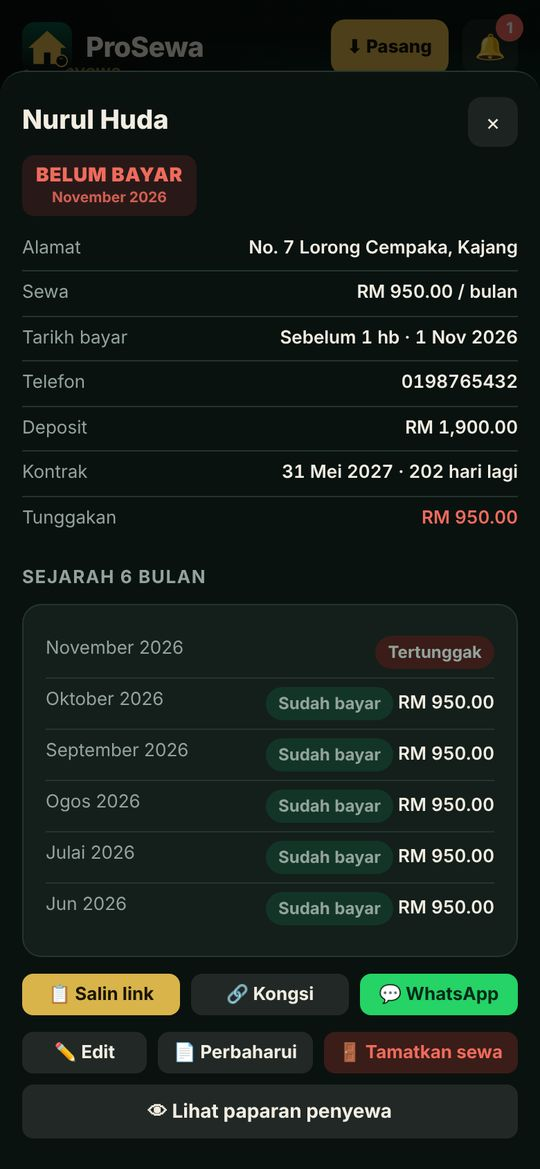
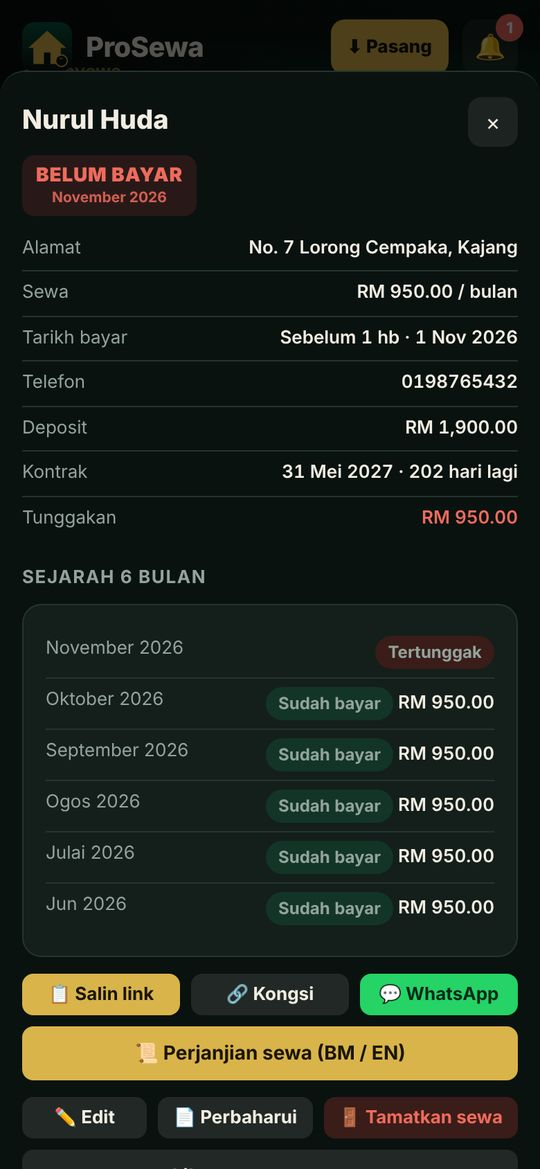
Kotak borang sejajar (grid2 align end); manual (perjanjian, peraturan, deposit cepat + 2 gambar baru), promo (ciri & FAQ perjanjian sewa), promo kit
Claude-Session: https://claude.ai/code/session_017f1VMKQwjxZcuJmQN7U4w8

Changed region(s): [[0.0296, 0.8623, 0.9778, 1.0]]

diff --git a/index.html b/index.html
@@ -122,7 +122,7 @@ input,select,textarea{width:100%;padding:11px 12px;border:1px solid var(--line);
 input:focus,select:focus,textarea:focus{border-color:var(--gold)}
 textarea{min-height:80px;resize:vertical}
 input::placeholder,textarea::placeholder{color:var(--muted);opacity:.85}
-.grid2{display:grid;grid-template-columns:minmax(0,1fr) minmax(0,1fr);gap:0 10px}
+.grid2{display:grid;grid-template-columns:minmax(0,1fr) minmax(0,1fr);gap:0 10px;align-items:end}
 .mnav{display:flex;gap:8px;align-items:center;margin:4px 0 10px}.mnav select{flex:1;padding:10px 12px;border-radius:12px;border:1px solid var(--line);background:var(--bg);color:var(--ink);font:700 15px var(--f);text-align:center}.mnav .btn{flex:none;width:48px;height:46px;padding:0;font-size:26px;font-weight:800;line-height:1;display:grid;place-items:center}.mnow{display:flex;justify-content:flex-end;margin:-4px 0 10px}.mnow .btn{white-space:nowrap;padding:7px 14px;font-size:13px;border-radius:999px}
 .fqbox{width:100%;box-sizing:border-box;padding:10px 12px;border-radius:12px;border:1px solid var(--line);background:var(--bg);color:var(--ink);font:14px var(--f);margin:0 0 10px}
 .seg{display:flex;border:1px solid var(--line);border-radius:10px;overflow:hidden;margin:4px 0 12px}
@@ -725,7 +725,7 @@ Object.assign(I18N, {
   'Notifikasi tunggakan selepas tarikh bayar': 'Overdue notification after due date', 'Simpan': 'Save', 'Aktifkan notifikasi phone': 'Enable phone notifications', 'Notifikasi phone aktif': 'Phone notifications on',
   'Install app ProSewa': 'Install ProSewa app', 'Keselamatan': 'Security', 'Kata laluan baru': 'New password', 'Tukar kata laluan': 'Change password', 'Log Keluar': 'Sign Out',
   'Tambah Penyewa': 'Add Tenant', 'Edit Penyewa': 'Edit Tenant', 'Nama penyewa': 'Tenant name', 'No. telefon (WhatsApp)': 'Phone no. (WhatsApp)', 'Alamat rumah / bilik sewa': 'Rental house / room address',
-  'Harga sewa (RM)': 'Rent (RM)', 'Bayar sebelum hari bulan ke-': 'Pay by day of month', 'Mula sewa': 'Start date', 'Nota (pilihan)': 'Notes (optional)',
+  'Harga sewa (RM)': 'Rent (RM)', 'Bayar sebelum hari bulan ke-': 'Pay by day of month', 'Hari bayar (setiap bulan)': 'Due day (monthly)', 'Mula sewa': 'Start date', 'Nota (pilihan)': 'Notes (optional)',
   'Link Penyewa': 'Tenant Link', 'Link khas untuk': 'Private link for', 'Jangan kongsi dengan orang lain.': 'Do not share with others.',
   'Penyewa cuma buka link ini, tiada login. Boleh terus pasang sebagai app.': 'The tenant just opens this link, no login. They can install it as an app.',
   'Hantar link via WhatsApp': 'Send link via WhatsApp', 'Lihat paparan penyewa': 'View tenant page', 'Tukar link': 'Change link',
@@ -1610,24 +1610,24 @@ const KIT = {
     hook: ['🏠 Ada rumah / bilik sewa? Penat kejar sewa setiap bulan?', '😅 Tuan rumah, berapa kali bulan ni anda hantar mesej "sewa dah boleh bayar ya"?', '📒 Masih rekod sewa dalam buku atau WhatsApp?', '🧾 Penyewa minta resit, anda cari slip dalam WhatsApp lagi?',
       '🔑 Urus banyak bilik sewa? Susah nak ingat siapa dah bayar?', '⏰ Sewa lewat lagi bulan ni?', '📊 Musim e-Filing tiba, tapi rekod sewa bersepah?', '🏘 Ada bilik kosong, tapi tak pasti dah berapa lama?', '💸 Penat kira tunggakan sewa secara manual?', '📱 Urus rumah sewa terus dari phone, tanpa buku & kalkulator.'],
     intro: ['ProSewa ialah app urus rumah sewa untuk tuan rumah di Malaysia.', 'Inilah ProSewa: semua urusan sewa dalam satu app.', 'ProSewa direka khas untuk tuan rumah, sama ada sewa bilik atau seluruh rumah.', 'Dengan ProSewa, kutipan sewa jadi kemas dan teratur.'],
-    feat: ['Penyewa muat naik bukti bayaran, anda semak & lulus', 'Resit bernombor keluar automatik, lengkap dengan logo anda', 'Peringatan sewa automatik terus ke phone penyewa', 'Nampak siapa DIBAYAR & BELUM BAYAR sekali pandang', 'Terlebih bayar dibawa ke bulan depan secara automatik',
+    feat: ['Perjanjian sewa BM / EN dijana automatik, siap ruang tandatangan', 'Penyewa muat naik bukti bayaran, anda semak & lulus', 'Resit bernombor keluar automatik, lengkap dengan logo anda', 'Peringatan sewa automatik terus ke phone penyewa', 'Nampak siapa DIBAYAR & BELUM BAYAR sekali pandang', 'Terlebih bayar dibawa ke bulan depan secara automatik',
       'Bilik kosong & kadar penghunian sentiasa dipantau', 'Bil air, elektrik & IWK direkod ikut rumah', 'Laporan cukai siap untuk e-Filing', 'Penyata deposit siap bila penyewa keluar', 'Penyewa tak perlu daftar, cuma buka link', 'Aduan kerosakan terus dari app penyewa', 'Boleh guna di web & app Android'],
-    short: ['resit automatik', 'peringatan sewa', 'semakan bukti bayaran', 'bilik kosong', 'bil & utiliti', 'laporan cukai', 'penyata deposit', 'aduan kerosakan'],
+    short: ['perjanjian sewa', 'resit automatik', 'peringatan sewa', 'semakan bukti bayaran', 'bilik kosong', 'bil & utiliti', 'laporan cukai', 'penyata deposit', 'aduan kerosakan'],
     cta: [t => `Cuba percuma ${t} hari 👉 ${LANDING}`, t => `Daftar sekarang, percuma ${t} hari: ${LANDING}`, t => `Percuma ${t} hari, tanpa kad kredit. Mula di ${LANDING}`, t => `Mula guna hari ini, percuma ${t} hari: ${LANDING}`],
     ctaS: [t => `Percuma ${t} hari di prosewa.web.app 🏠`, t => `Cuba percuma ${t} hari: prosewa.web.app`, t => `Daftar percuma di prosewa.web.app (${t} hari)`],
     tags: ['#rumahsewa', '#tuanrumah', '#biliksewa', '#sewarumah', '#landlordmalaysia', '#prosewa', '#hartanahmalaysia', '#pelaburanhartanah', '#sewabilik', '#appmalaysia'],
-    lead: 'ProSewa bantu tuan rumah urus semuanya dalam satu app:', code: (c, d) => `\n🎟 Kod promo: ${c} (+${d} hari percuma, sekali guna)`},
+    lead: 'ProSewa bantu tuan rumah urus semuanya dalam satu app:', code: (c, d) => `\n🎟 Kod promo: ${c} (+${d} hari percuma)`},
   en: {
     hook: ['🏠 Own a rental house or room? Tired of chasing rent every month?', '😅 Landlords, how many "rent is due" messages did you send this month?', '📒 Still tracking rent in a notebook or WhatsApp?', '🧾 Tenant asks for a receipt and you\'re digging through WhatsApp again?',
       '🔑 Managing many rooms? Hard to remember who has paid?', '⏰ Rent late again this month?', '📊 Tax season is here, but your rent records are a mess?', '🏘 Got a vacant room but not sure how long it\'s been empty?', '💸 Tired of working out rent arrears by hand?', '📱 Manage your rentals from your phone, no notebook or calculator.'],
     intro: ['ProSewa is a rental management app for landlords in Malaysia.', 'Meet ProSewa: everything about rent in one app.', 'ProSewa is built for landlords, whether you rent out rooms or whole houses.', 'With ProSewa, collecting rent becomes neat and organised.'],
-    feat: ['Tenants upload payment proof, you review & approve', 'Numbered receipts created automatically, with your logo', 'Automatic rent reminders straight to tenants\' phones', 'See who has PAID & who hasn\'t at a glance', 'Overpayments carried to next month automatically',
+    feat: ['BM / EN tenancy agreement generated automatically, with signature spaces', 'Tenants upload payment proof, you review & approve', 'Numbered receipts created automatically, with your logo', 'Automatic rent reminders straight to tenants\' phones', 'See who has PAID & who hasn\'t at a glance', 'Overpayments carried to next month automatically',
       'Track vacant rooms & occupancy', 'Water, electricity & IWK bills recorded by property', 'Tax report ready for e-Filing', 'Deposit statement ready when a tenant moves out', 'Tenants don\'t sign up, they just open a link', 'Maintenance requests straight from the tenant app', 'Works on the web & as an Android app'],
-    short: ['automatic receipts', 'rent reminders', 'payment proof review', 'vacant rooms', 'bills & utilities', 'tax reports', 'deposit statements', 'maintenance requests'],
+    short: ['tenancy agreement', 'automatic receipts', 'rent reminders', 'payment proof review', 'vacant rooms', 'bills & utilities', 'tax reports', 'deposit statements', 'maintenance requests'],
     cta: [t => `Try it free for ${t} days 👉 ${LANDING}?lang=en`, t => `Sign up now, ${t} days free: ${LANDING}?lang=en`, t => `${t} days free, no credit card. Start at ${LANDING}?lang=en`, t => `Start today, free for ${t} days: ${LANDING}?lang=en`],
     ctaS: [t => `Free ${t}-day trial at prosewa.web.app 🏠`, t => `Try it free for ${t} days: prosewa.web.app`, t => `Sign up free at prosewa.web.app (${t} days)`],
     tags: ['#rentalproperty', '#landlord', '#landlordmalaysia', '#roomrental', '#propertymalaysia', '#prosewa', '#propertyinvestment', '#rentals', '#malaysia', '#landlordlife'],
-    lead: 'ProSewa helps landlords manage everything in one app:', code: (c, d) => `\n🎟 Promo code: ${c} (+${d} free days, single use)`}};
+    lead: 'ProSewa helps landlords manage everything in one app:', code: (c, d) => `\n🎟 Promo code: ${c} (+${d} free days)`}};
 const KIT_PLAT = [['wa', 'WhatsApp'], ['fb', 'Facebook'], ['tt', 'TikTok'], ['ig', 'Instagram'], ['x', 'X / Threads']];
 function kitRand(seed) { let a = seed >>> 0; return () => { a |= 0; a = a + 0x6D2B79F5 | 0; let t = Math.imul(a ^ a >>> 15, 1 | a); t = t + Math.imul(t ^ t >>> 7, 61 | t) ^ t; return ((t ^ t >>> 14) >>> 0) / 4294967296; }; }
 function kitText(plat, l, n, code, days) {
@@ -2065,8 +2065,8 @@ const MANUAL = [
   '<ul><li><b>Automatik:</b> penyewa dapat peringatan sebelum tarikh bayar dan bila sewa tertunggak (ikut Tetapan).</li><li><b>Manual:</b> di tab Status, tekan <b>🔔 Ingatkan</b> pada penyewa yang belum bayar. Notifikasi terus dihantar ke phone penyewa.</li><li>Notifikasi sampai walaupun app ditutup. Ikon app tunjuk <b>lencana</b> bila ada perkara belum disemak.</li><li>Tiada notifikasi? Tetapan → <b>🧪 Uji notifikasi</b>, dan pastikan notifikasi ProSewa dibenarkan dalam Tetapan phone.</li></ul>',
   '<ul><li><b>Automatic:</b> tenants get a reminder before the due date and when rent is overdue (based on Settings).</li><li><b>Manual:</b> in the Status tab, tap <b>🔔 Remind</b> on an unpaid tenant. A notification goes straight to their phone.</li><li>Notifications arrive even when the app is closed. The app icon shows a <b>badge</b> when something needs your attention.</li><li>No notifications? Settings → <b>🧪 Test notification</b>, and make sure ProSewa notifications are allowed in your phone settings.</li></ul>'],
  ['📄 Kontrak & deposit', '📄 Tenancy & deposit',
-  '<ul><li><b>📜 Perjanjian sewa (BM / EN):</b> buka penyewa → <b>📜 Perjanjian sewa</b>, kemudian Simpan PDF / Cetak. Logo, alamat, sewa, deposit, tempoh & ruang tandatangan pemilik, penyewa dan saksi diisi automatik. Tetapkan peraturan rumah di <b>Tetapan → 📜 Perjanjian sewa</b>. No. KP penyewa boleh diisi melalui ✏ Edit penyewa.</li><li>Isi <b>Tamat kontrak</b> pada penyewa. 30 hari sebelum tamat, amaran keluar di tab Penyewa dan notifikasi dihantar.</li><li>Buka penyewa → <b>📄 Perbaharui</b>: pilih tarikh tamat baru & sewa baru (berkuat kuasa bulan depan).</li><li>Penyewa keluar? Buka penyewa → <b>🚪 Tamatkan sewa</b> → isi tarikh keluar, tolak tunggakan & potongan (pembersihan, kerosakan, bil). Sistem kira baki deposit dan jana <b>Penyata Deposit</b> yang penyewa boleh lihat.</li></ul>',
-  '<ul><li><b>📜 Tenancy agreement (BM / EN):</b> open a tenant → <b>📜 Tenancy agreement</b>, then Save PDF / Print. Logo, address, rent, deposit, term and signature spaces for the landlord, tenant and witness are filled in automatically. Set your house rules in <b>Settings → 📜 Tenancy agreement</b>. The tenant\'s IC can be added via ✏ Edit tenant.</li><li>Fill in <b>Tenancy end</b> for each tenant. 30 days before it ends, a warning appears in the Tenants tab and notifications are sent.</li><li>Open the tenant → <b>📄 Renew</b>: choose the new end date & new rent (applies from next month).</li><li>Tenant moving out? Open the tenant → <b>🚪 End tenancy</b> → enter the move-out date, deduct arrears & charges (cleaning, damage, bills). The system calculates the deposit balance and creates a <b>Deposit Statement</b> the tenant can view.</li></ul>'],
+  '<ul><li><b>📜 Perjanjian sewa (BM / EN):</b> buka penyewa → <b>📜 Perjanjian sewa</b>, kemudian Simpan PDF / Cetak. Logo, alamat, sewa, bayaran masuk (sewa bulan pertama + deposit), tempoh & ruang tandatangan pemilik, penyewa dan saksi diisi automatik. No. KP penyewa boleh diisi melalui ✏ Edit penyewa.</li><li><b>Peraturan rumah:</b> Tetapan → <b>📜 Tetapan & peraturan perjanjian</b>. Setiap peraturan satu kotak (BM + terjemahan EN). Tekan <b>＋ Tambah peraturan</b> untuk tambah, <b>✕</b> untuk buang.</li><li><b>Deposit 1 + 1 / 1 + 2 / 1 + 3:</b> dalam borang penyewa tekan <b>Deposit cepat</b>, atau tetapkan <b>Deposit asal untuk penyewa baru</b> dalam Tetapan perjanjian.</li><li>Isi <b>Tamat kontrak</b> pada penyewa. 30 hari sebelum tamat, amaran keluar di tab Penyewa dan notifikasi dihantar.</li><li>Buka penyewa → <b>📄 Perbaharui</b>: pilih tarikh tamat baru & sewa baru (berkuat kuasa bulan depan).</li><li>Penyewa keluar? Buka penyewa → <b>🚪 Tamatkan sewa</b> → isi tarikh keluar, tolak tunggakan & potongan (pembersihan, kerosakan, bil). Sistem kira baki deposit dan jana <b>Penyata Deposit</b> yang penyewa boleh lihat.</li></ul>',
+  '<ul><li><b>📜 Tenancy agreement (BM / EN):</b> open a tenant → <b>📜 Tenancy agreement</b>, then Save PDF / Print. Logo, address, rent, move-in payment (first month rent + deposit), term and signature spaces for the landlord, tenant and witness are filled in automatically. The tenant\'s IC can be added via ✏ Edit tenant.</li><li><b>House rules:</b> Settings → <b>📜 Agreement settings & rules</b>. Each rule has its own box (BM + EN translation). Tap <b>＋ Add rule</b> to add, <b>✕</b> to remove.</li><li><b>Deposit 1 + 1 / 1 + 2 / 1 + 3:</b> tap <b>Quick deposit</b> in the tenant form, or set the <b>Default deposit for new tenants</b> in Agreement settings.</li><li>Fill in <b>Tenancy end</b> for each tenant. 30 days before it ends, a warning appears in the Tenants tab and notifications are sent.</li><li>Open the tenant → <b>📄 Renew</b>: choose the new end date & new rent (applies from next month).</li><li>Tenant moving out? Open the tenant → <b>🚪 End tenancy</b> → enter the move-out date, deduct arrears & charges (cleaning, damage, bills). The system calculates the deposit balance and creates a <b>Deposit Statement</b> the tenant can view.</li></ul>'],
  ['🛠 Aduan kerosakan', '🛠 Maintenance requests',
   '<ul><li>Penyewa hantar aduan (kategori, penerangan, gambar) dari tab <b>Aduan</b> di app mereka.</li><li>Anda dapat notifikasi. Buka tab <b>Aduan</b> → <b>Kemas kini status</b> (Dalam tindakan / Selesai) dan tulis nota, contohnya tarikh tukang datang.</li><li>Penyewa dimaklumkan setiap kali status berubah.</li></ul>',
   '<ul><li>Tenants send requests (category, description, photo) from the <b>Requests</b> tab in their app.</li><li>You get notified. Open the <b>Requests</b> tab → <b>Update status</b> (In progress / Resolved) and add a note, e.g. when the repairer will come.</li><li>Tenants are notified every time the status changes.</li></ul>'],
@@ -2097,7 +2097,8 @@ const CHANGELOG = [
    'Super Admin: butang status laporan terus pada senarai (📮 Diterima / 👀 Dalam tindakan / ✅ Selesai). Laporan selesai diturunkan ke bawah dan keputusan diagnosisnya dibuang.',
    'Super Admin: kod promo boleh ada <b>had pengguna</b> (cth 10 owner untuk satu kod) dan <b>kod sendiri</b> (cth RAYA2026). Seorang owner hanya boleh guna kod yang sama sekali.',
    'Super Admin: butang terapung <b>👥 Users</b> di atas butang Super: jumlah pendaftaran (hari ini, 7 & 30 hari), aktif / tidak aktif, percubaan / berbayar dan senarai owner.',
-   '<b>📜 Perjanjian sewa BM / EN</b> dijana automatik untuk setiap penyewa (logo, alamat, sewa, deposit, tempoh, peraturan rumah & tandatangan pemilik, penyewa, saksi). Simpan PDF atau cetak.'
+   '<b>📜 Perjanjian sewa BM / EN</b> dijana automatik untuk setiap penyewa (logo, alamat, sewa, deposit, tempoh, peraturan rumah & tandatangan pemilik, penyewa, saksi). Simpan PDF atau cetak.',
+   '<b>Deposit cepat 1 + 1 / 1 + 2 / 1 + 3</b> dalam borang penyewa, dan deposit asal boleh ditetapkan. Peraturan rumah kini satu kotak setiap peraturan (＋ Tambah / ✕ Buang). Semua kotak borang kini sejajar.'
  ], en: [
    '<b>Over / under payment</b>: when reviewing a payment, the owner can enter the <b>actual amount received</b>. Extra becomes credit deducted from the next payment; a shortfall is added to the next payment.',
    'New payments now settle the <b>oldest unpaid month first</b>. Tenants see the amount due including previous balance.',
@@ -2107,7 +2108,8 @@ const CHANGELOG = [
    'Super Admin: report status buttons right in the list (📮 Received / 👀 In progress / ✅ Resolved). Resolved reports move to the bottom and their diagnosis results are cleared.',
    'Super Admin: promo codes can have a <b>user limit</b> (e.g. 10 owners for one code) and a <b>custom code</b> (e.g. RAYA2026). Each owner can use the same code only once.',
    'Super Admin: a floating <b>👥 Users</b> button above the Super button: sign-ups (today, 7 & 30 days), active / inactive, trial / paid and the owner list.',
-   '<b>📜 BM / EN tenancy agreement</b> generated automatically for each tenant (logo, address, rent, deposit, term, house rules & signatures for landlord, tenant and witness). Save as PDF or print.'
+   '<b>📜 BM / EN tenancy agreement</b> generated automatically for each tenant (logo, address, rent, deposit, term, house rules & signatures for landlord, tenant and witness). Save as PDF or print.',
+   '<b>Quick deposit 1 + 1 / 1 + 2 / 1 + 3</b> in the tenant form, with a default deposit setting. House rules now use one box per rule (＋ Add / ✕ Remove). All form boxes are now aligned.'
  ]},
  {v: '2026.11.09', bm: [
    'Tab <b>Status</b> kini tab pertama, <b>Penyewa</b> tab kedua.',
@@ -2177,7 +2179,7 @@ const MANUAL_IMG = [
  [['m03', 'Hartanah: kadar penghunian, bilik kosong & sewa yang hilang.', 'Properties: occupancy, vacant rooms & lost rent.']],
  [['m04a', 'Tab Status: bukti bayaran baru di bahagian atas.', 'Status tab: new payment proofs at the top.'], ['m04b', 'Semak bayaran: semak jumlah sebenar diterima, tanda kotak, kemudian Lulus & hantar resit.', 'Review payment: check the actual amount received, tick the box, then Approve & send receipt.'], ['m04c', 'Resit bernombor dijana automatik.', 'A numbered receipt is created automatically.'], ['m04d', 'Bayaran manual untuk penyewa yang tak guna app.', 'Manual payment for tenants who don\'t use the app.']],
  [['m05', 'Belum bayar: Ingatkan, Bayaran manual atau WhatsApp.', 'Unpaid: Remind, Manual payment or WhatsApp.']],
- [['m06', 'Tamatkan sewa: potongan & baki deposit dikira automatik.', 'End tenancy: deductions & deposit balance are calculated automatically.']],
+ [['m06b', 'Perjanjian sewa BM / EN dijana automatik, sedia untuk PDF / cetak.', 'BM / EN tenancy agreement generated automatically, ready to PDF / print.'], ['m06c', 'Peraturan rumah: satu kotak setiap peraturan, ＋ Tambah atau ✕ Buang.', 'House rules: one box per rule, ＋ Add or ✕ Remove.'], ['m06', 'Tamatkan sewa: potongan & baki deposit dikira automatik.', 'End tenancy: deductions & deposit balance are calculated automatically.']],
  [['m07', 'Tab Aduan: kemas kini status aduan penyewa.', 'Requests tab: update the status of tenant requests.']],
  [['m08b', 'Kutipan sewa: jangkaan vs diterima setiap bulan.', 'Rent collection: expected vs received each month.'], ['m08a', 'Bil & utiliti ikut rumah, untuk laporan cukai.', 'Bills & utilities by property, for the tax report.']],
  [['m09', 'Tab Langganan: baki hari & pilih pakej.', 'Subscription tab: days left & choose a plan.']],
@@ -2269,7 +2271,7 @@ function tenantForm(id, preset) {
     ${fld('No. KP / Pasport penyewa (pilihan, untuk perjanjian sewa)', 'ic', t.ic || '', 'text', 'maxlength="20" placeholder="cth: 900101-14-5678"')}
     <div class="grid2">${money('Harga sewa (RM)', 'rent', t.rent)}${money('Deposit (RM)', 'deposit', t.deposit)}</div>
     <div class="depx"><span class="muted">Deposit cepat:</span>${[1, 2, 3].map(n => `<button type="button" class="btn sm ghost" data-act="depX" data-id="${n}">1 + ${n}</button>`).join('')}</div>
-    <div class="grid2">${fld('Bayar sebelum hari bulan ke-', 'dueDay', t.dueDay, 'number', 'min="1" max="31" required')}${fld('Mula sewa', 'startDate', t.startDate, 'date', 'required')}</div>
+    <div class="grid2">${fld('Hari bayar (setiap bulan)', 'dueDay', t.dueDay, 'number', 'min="1" max="31" required')}${fld('Mula sewa', 'startDate', t.startDate, 'date', 'required')}</div>
     ${fld('Tamat kontrak (pilihan)', 'contractEnd', t.contractEnd || '', 'date')}
     ${fld('Nota (pilihan)', 'notes', t.notes)}
     ${id ? '' : `<div class="card" style="margin:10px 0;padding:12px"><label class="switch"><span><b>Sewa bulan pertama sudah dibayar</b><br><span class="muted" style="font-size:12.5px">Contoh: dibayar bersama deposit semasa masuk (downpayment). Resit dijana & bulan pertama terus DIBAYAR.</span></span><input type="checkbox" name="firstPaid" checked></label>

diff --git a/promo.html b/promo.html
@@ -146,6 +146,7 @@ body{-webkit-user-select:none;user-select:none;-webkit-touch-callout:none;-webki
     <div><i>🔔</i><b data-bm>Peringatan & notifikasi</b><b data-en>Reminders & notifications</b><span data-bm>Peringatan sewa automatik ke phone penyewa, dan makluman terus kepada anda.</span><span data-en>Automatic rent reminders to tenants' phones, and instant alerts to you.</span></div>
     <div><i>📊</i><b data-bm>Laporan kutipan & cukai</b><b data-en>Collection & tax reports</b><span data-bm>Kutipan bulanan, tunggakan, perbelanjaan, bil elektrik / air / IWK dan pendapatan bersih untuk e-Filing. PDF & Excel.</span><span data-en>Monthly collection, arrears, expenses, electricity / water / IWK bills and net income for e-Filing. PDF & Excel.</span></div>
     <div><i>📄</i><b data-bm>Kontrak & deposit</b><b data-en>Tenancy & deposit</b><span data-bm>Amaran kontrak hampir tamat, pembaharuan dan penyata pulangan deposit.</span><span data-en>Tenancy expiry alerts, renewals and deposit refund statements.</span></div>
+    <div><i>📜</i><b data-bm>Perjanjian sewa BM / EN</b><b data-en>BM / EN tenancy agreement</b><span data-bm>Perjanjian sewa dijana automatik: logo, alamat, sewa, deposit 1 + 1, peraturan rumah dan ruang tandatangan pemilik, penyewa & saksi. Simpan PDF atau cetak.</span><span data-en>Tenancy agreements generated automatically: logo, address, rent, 1 + 1 deposit, house rules and signature spaces for landlord, tenant & witness. Save as PDF or print.</span></div>
     <div><i>🏘</i><b data-bm>Rumah & bilik</b><b data-en>Houses & rooms</b><span data-bm>Daftar rumah dan bilik. Nampak bilik kosong, kadar penghunian dan sewa yang hilang.</span><span data-en>Register houses and rooms. See vacancies, occupancy and lost rent at a glance.</span></div>
     <div><i>🛠</i><b data-bm>Aduan kerosakan</b><b data-en>Maintenance requests</b><span data-bm>Penyewa lapor kerosakan dengan gambar, anda kemas kini status sehingga selesai.</span><span data-en>Tenants report issues with photos, you update the status until it's fixed.</span></div>
     <div><i>💳</i><b data-bm>Bank & QR bayaran</b><b data-en>Bank & payment QR</b><span data-bm>Paparkan no. akaun dan QR DuitNow anda. Penyewa salin atau imbas terus.</span><span data-en>Show your account number and DuitNow QR. Tenants copy or scan directly.</span></div>
@@ -197,6 +198,7 @@ body{-webkit-user-select:none;user-select:none;-webkit-touch-callout:none;-webki
     <details><summary><span data-bm>Penyewa perlu daftar atau download app?</span><span data-en>Do tenants need to sign up or download an app?</span></summary><p data-bm>Tidak. Penyewa cuma buka link khas yang anda hantar. Mereka boleh pasang sebagai app (Android APK atau dari browser) jika mahu.</p><p data-en>No. Tenants just open the private link you send. They can install it as an app (Android APK or from the browser) if they want.</p></details>
     <details><summary><span data-bm>Duit sewa masuk ke mana?</span><span data-en>Where does the rent money go?</span></summary><p data-bm>Terus ke akaun bank anda sendiri. Penyewa bayar seperti biasa (DuitNow, pindahan bank, QR) dan muat naik slip. ProSewa tidak memegang wang anda.</p><p data-en>Straight to your own bank account. Tenants pay as usual (DuitNow, bank transfer, QR) and upload the slip. ProSewa never holds your money.</p></details>
     <details><summary><span data-bm>Kalau penyewa tak pandai guna app?</span><span data-en>What if a tenant isn't good with apps?</span></summary><p data-bm>Penyewa cuma hantar bukti bayaran kepada anda. Tekan <b>Bayaran manual</b>, pilih kaedah (pindahan bank, Touch 'n Go, deposit tunai, tunai) dan muat naik slip. Resit tetap dijana dan masuk ke laporan.</p><p data-en>They just send you the proof. Tap <b>Manual payment</b>, choose the method (bank transfer, Touch 'n Go, cash deposit, cash) and upload the slip. A receipt is still issued and it goes into your reports.</p></details>
+    <details><summary><span data-bm>Ada perjanjian sewa?</span><span data-en>Is there a tenancy agreement?</span></summary><p data-bm>Ada. ProSewa jana perjanjian sewa dwibahasa (BM / EN) untuk setiap penyewa. Anda cuma tetapkan peraturan rumah, maklumat lain diisi automatik. Perjanjian perlu disetem di LHDN untuk kesahan.</p><p data-en>Yes. ProSewa generates a bilingual (BM / EN) tenancy agreement for each tenant. You only set the house rules; everything else is filled in automatically. The agreement should be stamped at LHDN to be legally valid.</p></details>
     <details><summary><span data-bm>Kalau penyewa bayar lebih atau kurang?</span><span data-en>What if a tenant pays more or less?</span></summary><p data-bm>Semasa semak, anda isi jumlah sebenar yang diterima. Lebihan jadi kredit dan ditolak daripada bayaran seterusnya; kekurangan ditambah pada bayaran seterusnya. Semuanya dikira automatik dalam status, resit dan laporan.</p><p data-en>When reviewing, you enter the actual amount received. Any extra becomes credit deducted from the next payment; any shortfall is added to the next payment. Everything is calculated automatically in the status, receipts and reports.</p></details>
     <details><summary><span data-bm>Boleh guna untuk bilik sewa atau banyak rumah?</span><span data-en>Does it work for rooms or multiple houses?</span></summary><p data-bm>Boleh. Daftar setiap rumah dan biliknya di tab Hartanah. Anda nampak bilik kosong, kadar penghunian dan sewa yang hilang, dan laporan cukai dipecahkan ikut rumah.</p><p data-en>Yes. Register each house and its rooms in the Properties tab. You'll see vacant rooms, occupancy and lost rent, and the tax report is broken down by property.</p></details>
     <details><summary><span data-bm>Boleh rekod bil air, elektrik, IWK & maintenance?</span><span data-en>Can I record water, electricity, IWK & maintenance bills?</span></summary><p data-bm>Boleh. Rekod beberapa bil sekali gus ikut rumah, atau tetapkan bil tetap (IWK, maintenance, internet) sebagai bil berulang yang direkod automatik setiap bulan. Semua bil ditolak dalam laporan pendapatan sewa bersih.</p><p data-en>Yes. Record several bills at once per property, or set fixed bills (IWK, maintenance, internet) as recurring bills recorded automatically every month. All bills are deducted in the net rental income report.</p></details>
